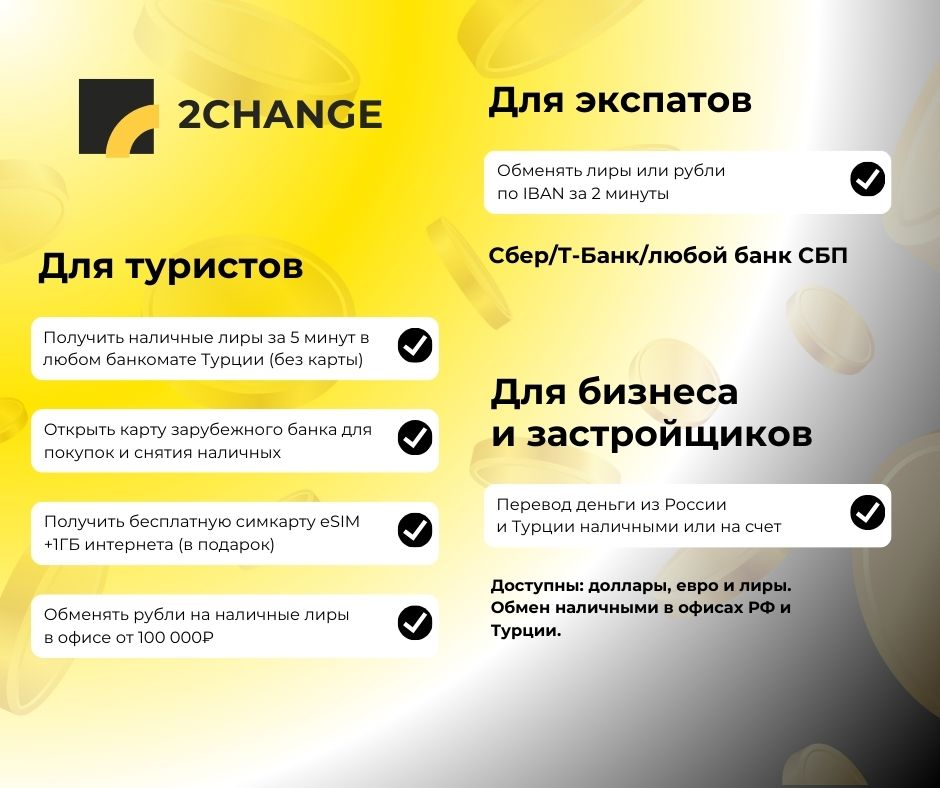
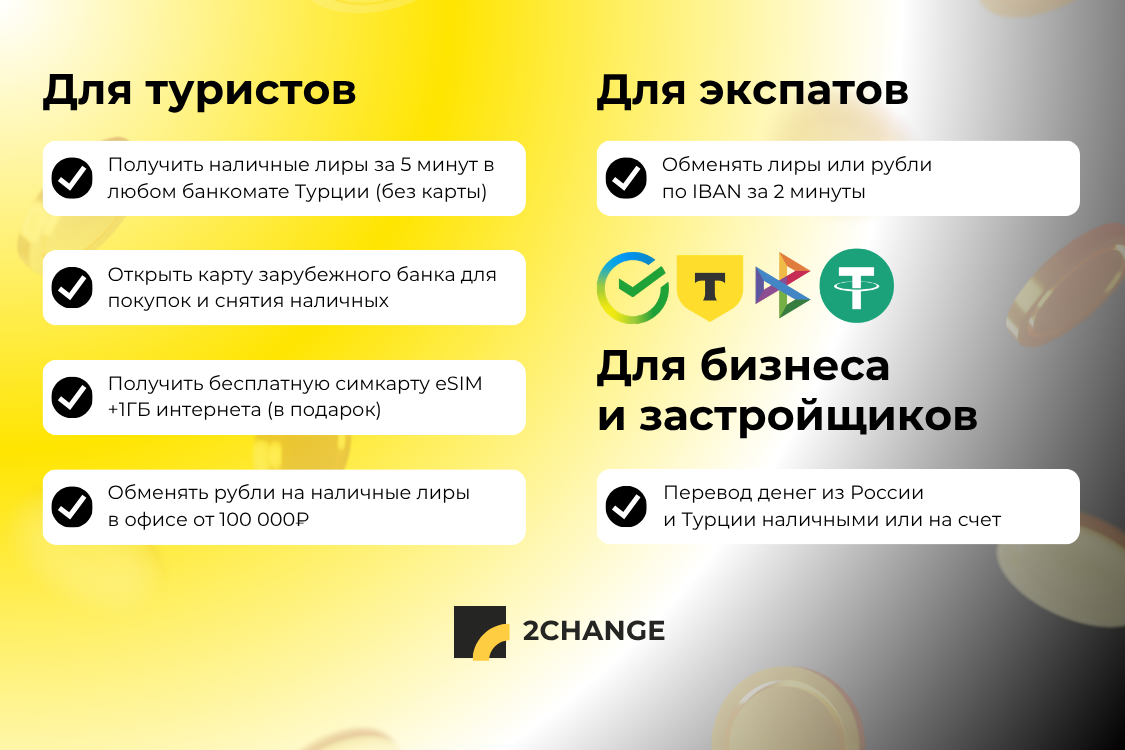
+ stuff

diff --git a/handlers/thailand.py b/handlers/thailand.py
@@ -14,6 +14,7 @@ class ThailandHandlers:
 
         self.routes: dict[str, Callable] = {
             "thai_menu":self.thai_menu,
+            "thai_currencies":self.thai_currencies,
         }
 
     def register(self):
@@ -37,12 +38,26 @@ class ThailandHandlers:
         chat_id = call.message.chat.id
         self.clearstate(chat_id)
 
-        msg = self.finstr.show_currency(country=3)
+
         keyboard = InlineKeyboardMarkup()
         keyboard.add(InlineKeyboardButton("✏Сделать расчет",style="success", callback_data="calc_thai"))
+        keyboard.add(InlineKeyboardButton("📈Курс", callback_data="thai_currencies"))
         keyboard.add(InlineKeyboardButton("💳Зарубежная карта", callback_data="tr_card_menu"))
         keyboard.add(InlineKeyboardButton("👩💻 Позвать оператора", callback_data="request/❔вопрос про курсы валют/3"))
         keyboard.add(InlineKeyboardButton("Меню📋", callback_data="main_menu"))
-        self.bot.send_message(chat_id, msg, parse_mode="HTML", reply_markup=keyboard)
+        self.send_media(path="img/thailand.jpg", chat_id=chat_id, caption='''🇹🇭<b>2Change — услуги в Таиланде\n\n🕒 График работы:</b>\nПн-Сб: 10:00 - 20:00 (Вс - выходной)\nОфис по записи'''
+                        , parse_mode="HTML", reply_markup=keyboard)
+    def thai_currencies(self, call):
+        chat_id = call.message.chat.id
+        self.clearstate(chat_id)
+
+        msg = self.finstr.show_currency(country=3)
+        keyboard = InlineKeyboardMarkup()
+        keyboard.add(InlineKeyboardButton("✏Сделать расчет", style="success", callback_data="calc_thai"))
+        keyboard.add(InlineKeyboardButton("💳Зарубежная карта", callback_data="tr_card_menu"))
+        keyboard.add(InlineKeyboardButton("👩💻 Позвать оператора", callback_data="request/❔вопрос про курсы валют/3"))
+        keyboard.add(InlineKeyboardButton("Меню📋", callback_data="main_menu"))
+        self.bot.send_message(chat_id=chat_id, text=msg, parse_mode="HTML", reply_markup=keyboard)
+
 
         return

diff --git a/handlers/china.py b/handlers/china.py
@@ -60,13 +60,13 @@ class ChinaHandlers:
                "<b>👉 Напишите @ALEXANDRA_2CHANGE или оставьте заявку на услугу</b>")
 
         kb = InlineKeyboardMarkup()
-        kb.add(InlineKeyboardButton("✏Калькулятор|Оставить заявку", callback_data="calc_cn"))
+        kb.add(InlineKeyboardButton("✏Калькулятор|Оставить заявку", callback_data="calc_cn", style='success'))
         kb.add(InlineKeyboardButton("📈Актуальный курс", callback_data="cn_currency_menu"))
         kb.add(InlineKeyboardButton("📲Cимкарта eSIM", callback_data="esim_cn"))
         kb.add(InlineKeyboardButton("💳Регистрация Alipay", callback_data="cn_alipay"))
         kb.add(InlineKeyboardButton("❓Как пополнить Alipay/Wechat", callback_data="cn_faq"))
         kb.add(InlineKeyboardButton("Главное меню📋", callback_data="main_menu"))
-        self.send_media("img/cn_main.jpg", chat_id=chat_id, caption=msg, parse_mode="HTML",
+        self.send_media("img/china.jpg", chat_id=chat_id, caption=msg, parse_mode="HTML",
                                   reply_markup=kb)
 
         return

diff --git a/services/exchange_service.py b/services/exchange_service.py
@@ -417,8 +417,8 @@ class ExchangeService:
             kb.add(InlineKeyboardButton("🇷🇺 Рубли → 🇰🇷 Воны (нал/счет)", callback_data="exchange/rub/krw/5"))
             kb.add(InlineKeyboardButton("🪙 USDT → 🇰🇷 Воны (нал/счет)", callback_data="exchange/usd/krw/5"))
             kb.add(InlineKeyboardButton("🇰🇷 Воны (нал/перевод) → 🇷🇺 Рубли", callback_data="exchange/krw/rub/5"))
-            # kb.add(InlineKeyboardButton("🇰🇷 Воны (нал/перевод) → 🪙 USDT", callback_data="exchange/krw/usd/5"))
-            kb.add(InlineKeyboardButton("🪙 USDT → 🇷🇺 Рубли", callback_data="exchange/usd/rub/5"))
+            kb.add(InlineKeyboardButton("🇰🇷 Воны (нал/перевод) → 🪙 USDT", callback_data="exchange/krw/usd/5"))
+
 
             kb.row(InlineKeyboardButton("💰Иные валюты", callback_data="request/💰Обмен иных валют/5"),
                    InlineKeyboardButton("◀Назад", callback_data="kr_menu"))

diff --git a/handlers/vietnam.py b/handlers/vietnam.py
@@ -47,7 +47,7 @@ class VietnamHandlers:
         kb.add(InlineKeyboardButton("📈Актуальный курс", callback_data="vn_currency_menu"))
         kb.add(InlineKeyboardButton("Зарубежная карта💳", callback_data="tr_card_menu"))
         kb.add(InlineKeyboardButton("Меню📋", callback_data="main_menu"))
-        self.bot.send_message(chat_id, msg, parse_mode="HTML", reply_markup=kb)
+        self.send_media(path='img/vietnam.jpg', chat_id=chat_id, caption=msg, parse_mode="HTML", reply_markup=kb)
 
         return
     def vn_currency_menu(self, call):

diff --git a/services/converter.py b/services/converter.py
@@ -123,8 +123,8 @@ class FinInstr:
                    f"Отдаете: 🇰🇷 {r["krw_rub"]:.2f} KRW\n"
                    f"Получаете: 🇷🇺 1 RUB\n\n"
                    f""
-                   f"Отдаете: 🪙 1 USDT\n"
-                   f"Получаете: 🇷🇺 {r["usd_rub"]:.2f} RUB\n\n"
+                   f"Отдаете: 🇰🇷 {r["krw_usd"]:.2f} KRW\n"
+                   f"Получаете: 🪙1 USDT\n\n"
                    f""
                    
                    "Другие валюты - по запросу\n\n"

diff --git a/handlers/korea.py b/handlers/korea.py
@@ -49,7 +49,7 @@ class KoreaHandlers:
                InlineKeyboardButton("Оплата обучения📚", callback_data="kr_edu"))
         kb.add(InlineKeyboardButton("Зарубежная карта💳", callback_data="tr_card_menu"))
         kb.add(InlineKeyboardButton("Меню📋", callback_data="main_menu"))
-        self.bot.send_message(chat_id, msg, parse_mode="HTML", reply_markup=kb)
+        self.send_media('img/korea.jpg', chat_id= chat_id, caption= msg, parse_mode="HTML", reply_markup=kb)
 
         return
     def kr_currency_menu(self, call):

diff --git a/handlers/start.py b/handlers/start.py
@@ -29,7 +29,7 @@ class StartHandlers:
             )
             keyboard.row(
                 InlineKeyboardButton("🇷🇺 Россия (USDT)", callback_data="rf_menu"),
-                InlineKeyboardButton("🇻🇳 Вьетнам", callback_data="vn_currency_menu")
+                InlineKeyboardButton("🇻🇳 Вьетнам", callback_data="vn_menu")
             )
 
             keyboard.add(InlineKeyboardButton("📥Пополнить Bybit Card (USDT)", callback_data="bybit_menu"))

diff --git a/config.py b/config.py
@@ -2,7 +2,7 @@ from dotenv import load_dotenv
 import os
 
 
-TEST_MODE = False#basically, local used only
+TEST_MODE = True#basically, local used only
 dotenv_path = os.path.join(os.path.dirname(__file__), ".env")
 
 if os.path.exists(dotenv_path):
